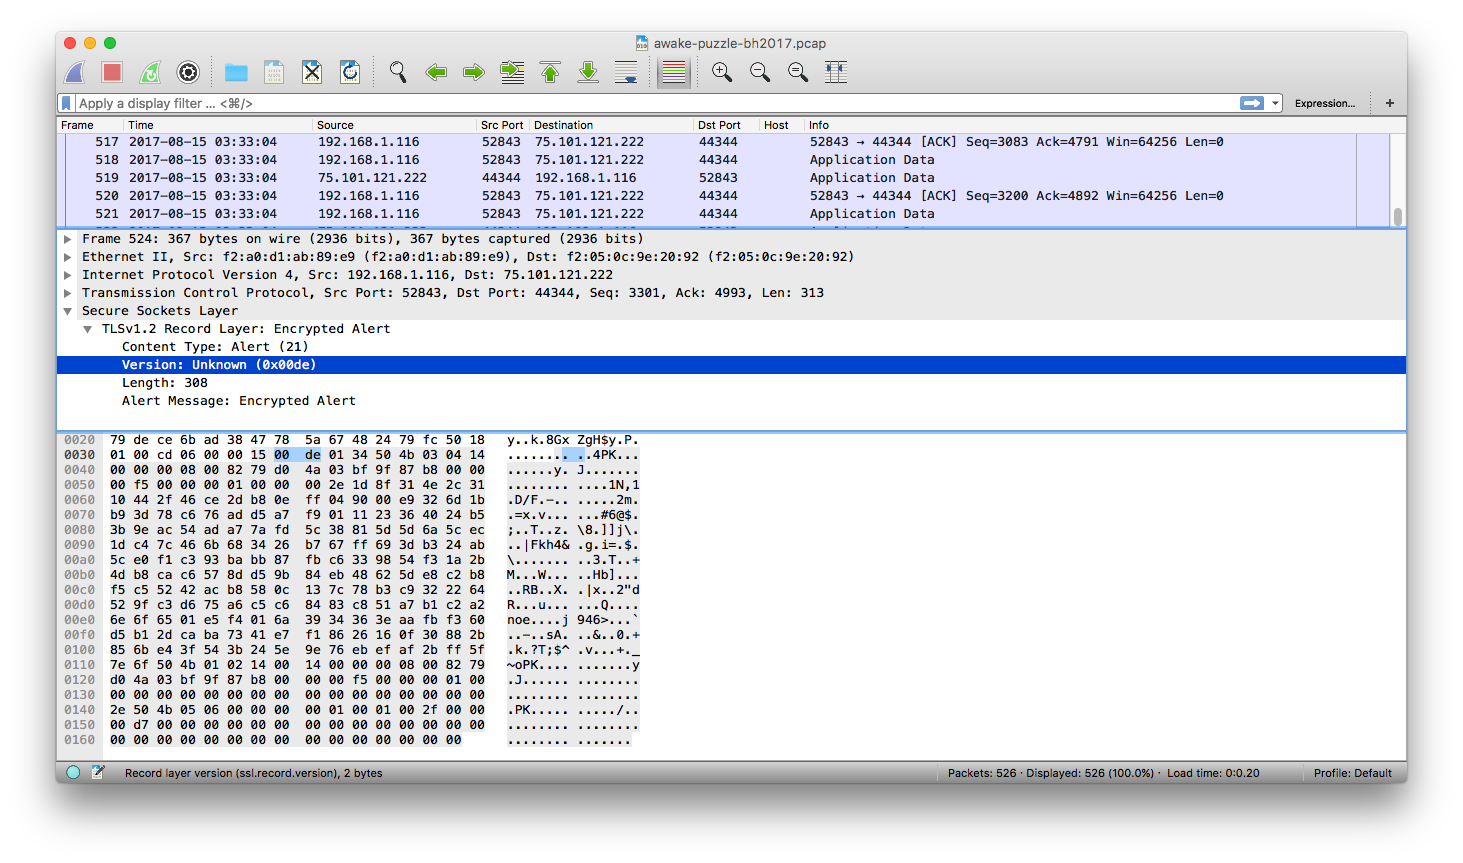
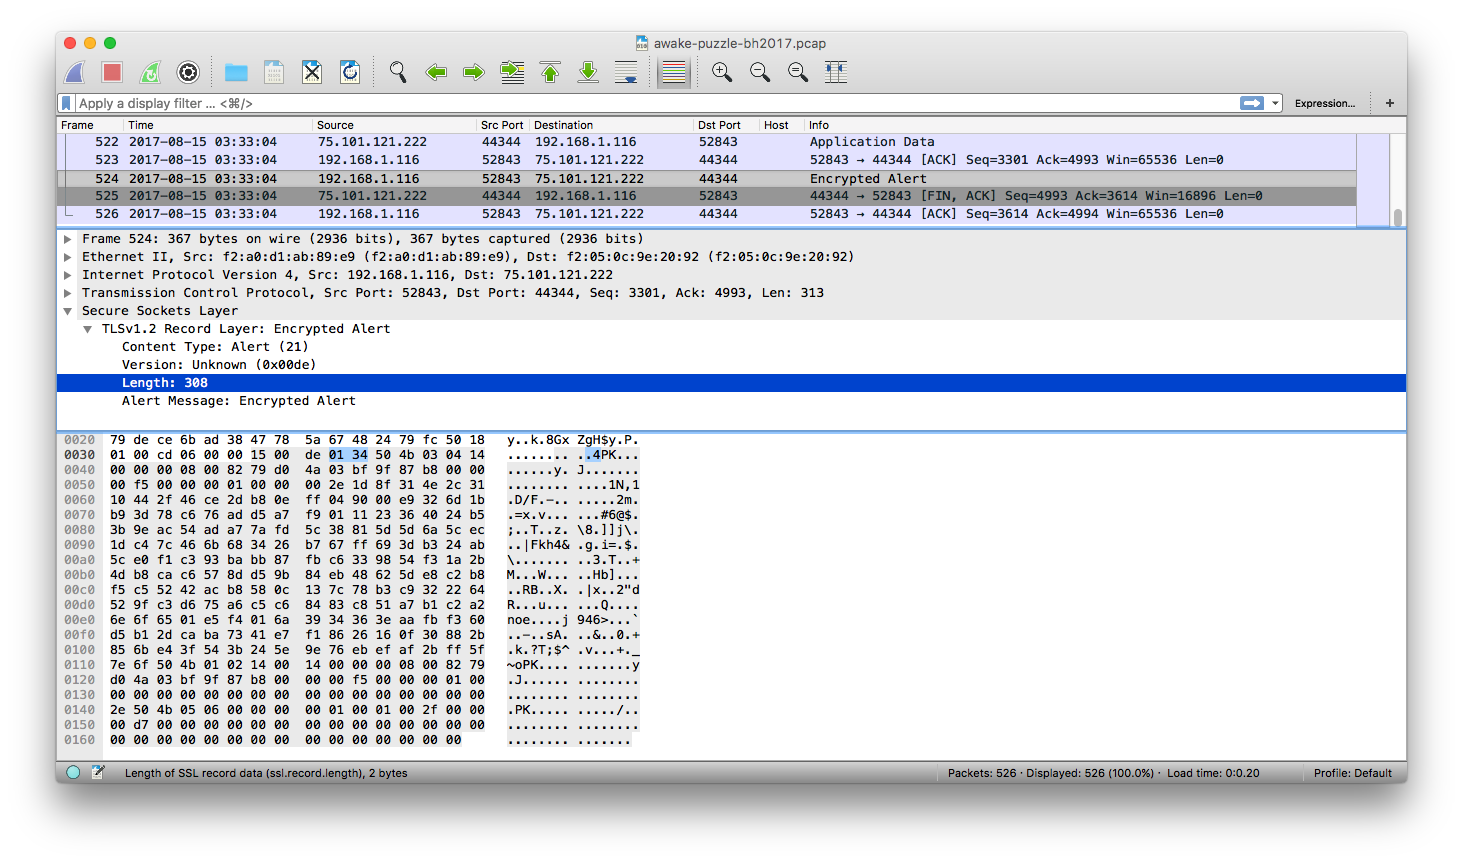
Some mod

diff --git a/_posts/2017-08-09-awake-pcap-challenge.md b/_posts/2017-08-09-awake-pcap-challenge.md
@@ -70,12 +70,17 @@ Once you decode them as SSL and go through them, you'll realize one weird thing:
 
 If you remember the earlier clue `alert.message`, you'll realize this packet probably has some clue. 
 The packet header says the message length is 308 (or `0x0134` if you prefer hex),
-so I extracted the message part (from the bytestring `50 4b 03` to the end)
+so I extracted the message part (from the bytestring `50 4b 03` to the end, which is
+right after the length header)
 and use [Cyberchef](https://gchq.github.io/CyberChef/) to figure out what it is.
 (`cyberchef.helps` was another clue from mDNS packet.)
 
 When you use [the Detect File Type operation](http://bit.ly/2hNEYae), you'll see that
-this is a zip file! Cool, let's just unzip it --- this is [the unzipped file](http://bit.ly/2hLf1I6) in Cyberchef.
+this is a zip file! 
+
+![placeholder](/image/awake/its_zip.png "It's a zip!")
+
+Cool, let's just unzip it --- this is [the unzipped file](http://bit.ly/2hLf1I6) in Cyberchef.
 
 ![placeholder](/image/awake/unzipped.png "Can you read this?")
 
